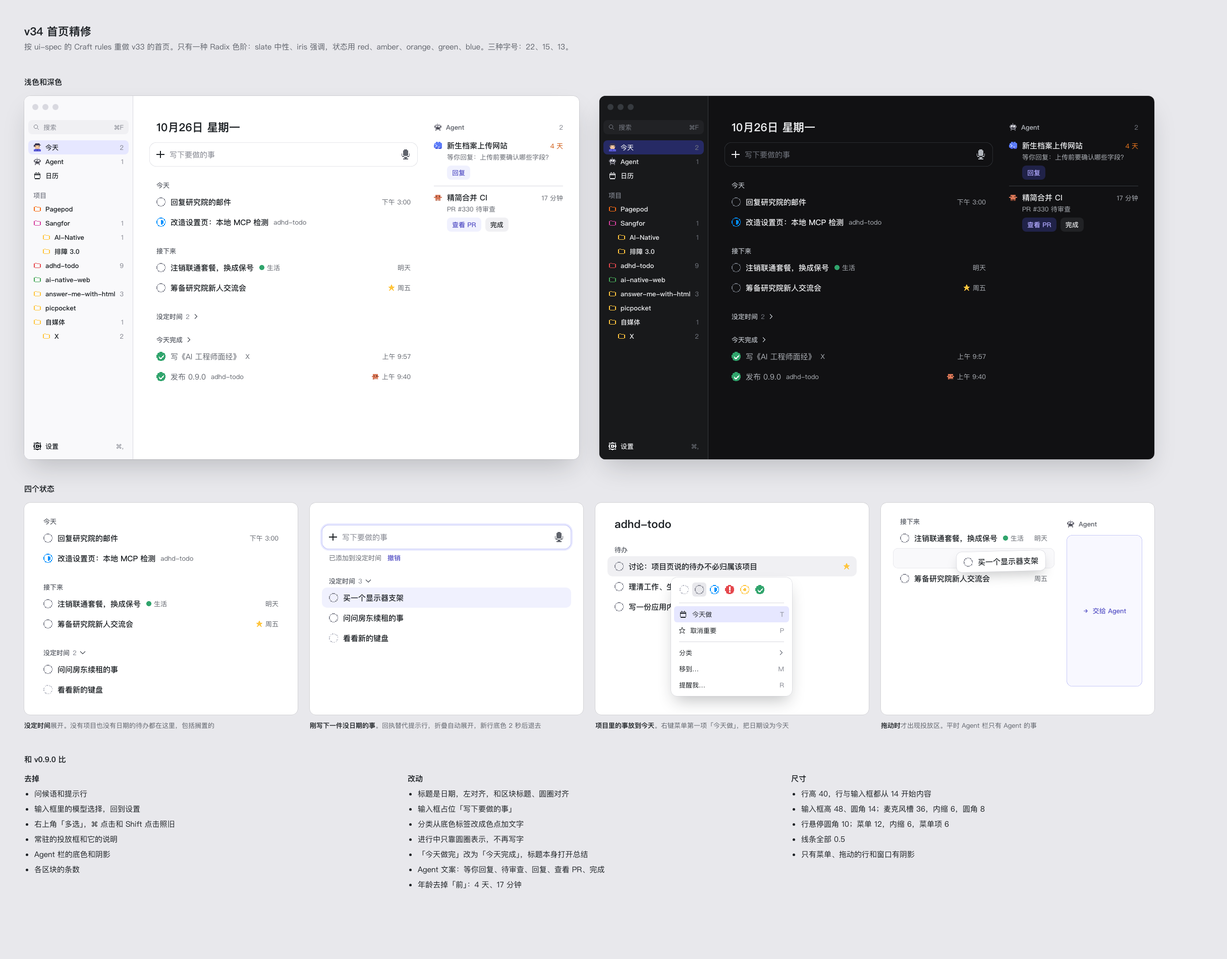
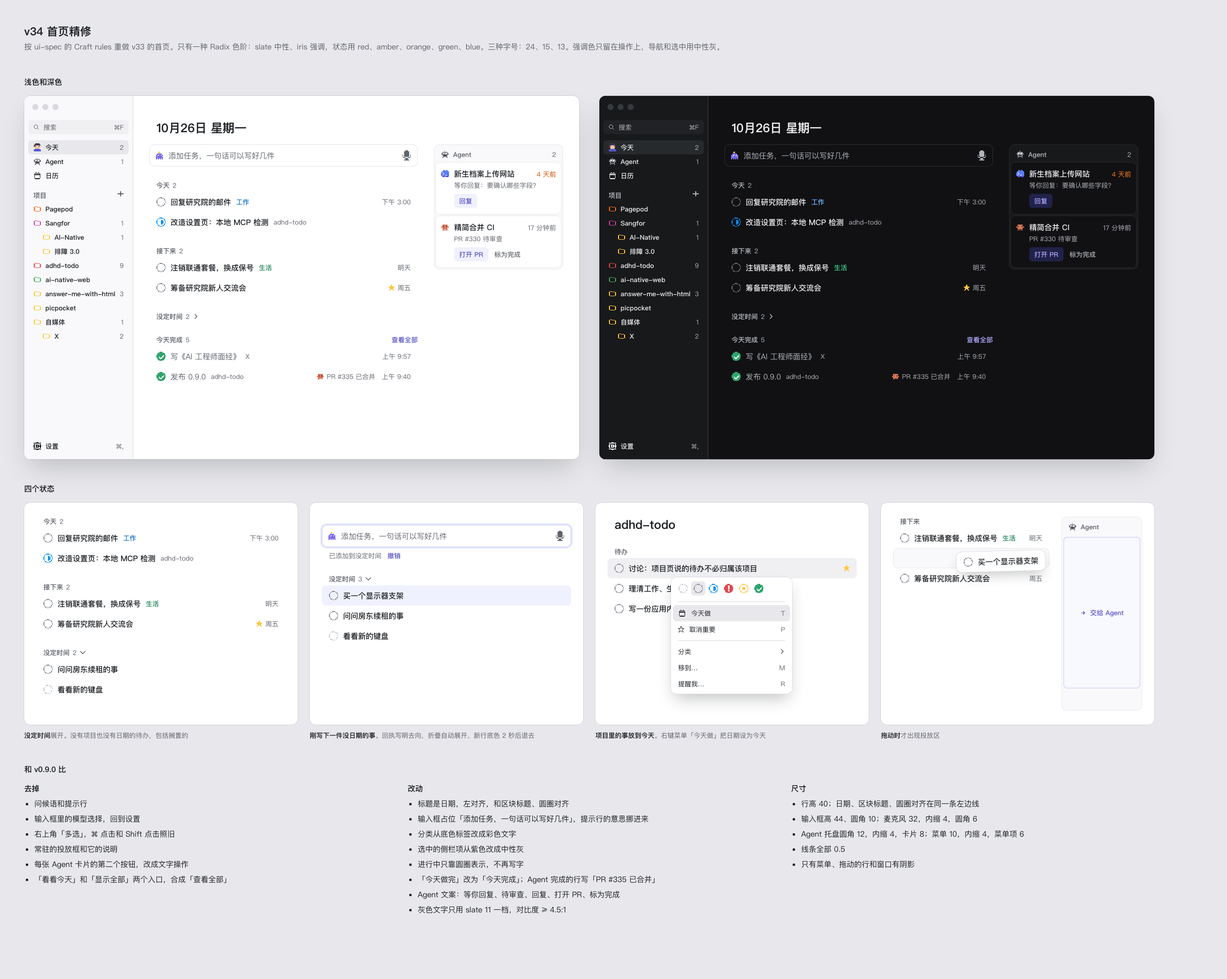
docs(design): v34 takes the app-screen rules and the parallel draft's best parts

diff --git a/docs/design/mockups/v34.html b/docs/design/mockups/v34.html
@@ -22,89 +22,89 @@ svg,img{display:block;flex:none}img.px{image-rendering:pixelated}
 .win{width:1100px;height:720px;background:var(--win);border-radius:12px;overflow:hidden;position:relative;display:flex;color:var(--s12);box-shadow:0 0 0 .5px rgba(0,0,0,.18),0 24px 48px -12px rgba(28,32,36,.22)}
 .lights{position:absolute;left:16px;top:16px;display:flex;gap:8px}.lights i{width:12px;height:12px;border-radius:6px;background:var(--s6)}
 .side{width:216px;background:var(--s2);border-right:.5px solid var(--s6);padding:48px 8px 12px;display:flex;flex-direction:column;flex:none}
-.search{height:28px;border-radius:8px;background:var(--s3);display:flex;align-items:center;gap:8px;padding:0 10px;font-size:13px;color:var(--s10);margin:0 0 12px}
+.search{height:28px;border-radius:6px;background:var(--s3);display:flex;align-items:center;gap:8px;padding:0 10px;font-size:13px;color:var(--s11);margin:0 0 12px}
 .search .k{margin-left:auto}
-.srow{height:28px;display:flex;align-items:center;gap:8px;padding:0 10px;font-size:13px;font-weight:500;border-radius:8px;color:var(--s12);white-space:nowrap;overflow:hidden}
-.srow em{margin-left:auto;font-style:normal;color:var(--s10);font-weight:400}.srow.on{background:var(--i4)}.srow.sub{padding-left:28px}
+.srow{height:28px;display:flex;align-items:center;gap:8px;padding:0 10px;font-size:13px;font-weight:500;border-radius:6px;color:var(--s12);white-space:nowrap;overflow:hidden}
+.srow em{margin-left:auto;font-style:normal;color:var(--s11);font-weight:400}.srow.on{background:var(--s4)}.srow.sub{padding-left:28px}
 .srow .ico{color:var(--s11)}
-.shead{font-size:13px;font-weight:600;color:var(--s10);margin:16px 10px 4px}
+.shead{font-size:13px;font-weight:600;color:var(--s11);margin:16px 10px 4px;display:flex;justify-content:space-between}
 .sp{flex:1}
 .main{flex:1;min-width:0;position:relative;display:flex;padding:48px 32px 0;gap:32px}
 .colL{flex:1;min-width:0}.colR{width:256px;flex:none}
-.title{font-size:22px;line-height:28px;font-weight:600;padding-left:14px}
+.title{font-size:24px;line-height:32px;font-weight:600;padding-left:14px;letter-spacing:-.01em}
 /* input: 48 tall, radius 14; the mic slot is 36 at a 6 inset, so its radius is 8 */
-.ask{margin-top:16px;height:48px;border-radius:14px;background:var(--win);box-shadow:inset 0 0 0 .5px var(--s7);display:flex;align-items:center;gap:10px;padding:0 6px 0 14px;font-size:15px}
-.ask .ph{color:var(--s10);flex:1}.ask .tx{flex:1}.ask .ic{color:var(--s11)}
+.ask{margin-top:16px;height:44px;border-radius:10px;background:var(--win);box-shadow:inset 0 0 0 .5px var(--s7);display:flex;align-items:center;gap:10px;padding:0 6px 0 12px;font-size:15px}
+.ask .ph{color:var(--s11);flex:1}.ask .tx{flex:1}.ask .ic{color:var(--s11)}
 .ask.focus{box-shadow:inset 0 0 0 .5px var(--i8),0 0 0 3px var(--i4)}
-.mic{width:36px;height:36px;border-radius:8px;display:grid;place-items:center;color:var(--s11)}
+.mic{width:32px;height:32px;border-radius:6px;display:grid;place-items:center;color:var(--s11)}
 .recp{font-size:13px;line-height:18px;color:var(--s11);margin:8px 0 0 14px;display:flex;gap:12px}.recp a{color:var(--i11);font-weight:500;text-decoration:none}
 /* lists */
 .grp{font-size:13px;line-height:18px;font-weight:600;color:var(--s11);margin:28px 0 4px;padding-left:14px;display:flex;align-items:center;gap:6px}
-.grp.link{color:var(--s11)}.grp .n{font-weight:400;color:var(--s10)}
-.row{height:40px;display:flex;align-items:center;gap:10px;padding:0 14px;border-radius:10px;font-size:15px}
+.grp.link{color:var(--s11)}.grp .n{font-weight:400;color:var(--s11)}.grp .lk{margin-left:auto;font-weight:500;color:var(--i11)}
+.row{height:40px;display:flex;align-items:center;gap:10px;padding:0 14px;border-radius:8px;font-size:15px}
 .row .ti{font-weight:500;white-space:nowrap;overflow:hidden;text-overflow:ellipsis;flex:0 1 auto}
 .row .pj{font-size:13px;color:var(--s11);white-space:nowrap}
-.row .cat{font-size:13px;color:var(--s11);display:flex;align-items:center;gap:4px;white-space:nowrap}
+.row .cat{font-size:13px;font-weight:500;white-space:nowrap}.cat.life{color:var(--grn11)}.cat.work{color:var(--blu11)}
 .row .g{flex:1}.row .r{font-size:13px;color:var(--s11);white-space:nowrap;display:flex;align-items:center;gap:6px}
 .row .r.due{color:var(--red11)}
 .row.done .ti{font-weight:400;color:var(--s11)}
 .row.hov{background:var(--s3)}.row.new{background:var(--i3)}
 .more{font-size:13px;color:var(--i11);font-weight:500;padding-left:42px;margin-top:4px}
 /* agents */
-.ah{font-size:13px;line-height:18px;font-weight:600;color:var(--s11);height:28px;display:flex;align-items:center;gap:8px}
-.ah .n{margin-left:auto;font-weight:400;color:var(--s10)}
-.ar{padding:12px 0;border-bottom:.5px solid var(--s6);display:flex;gap:10px}
-.ar:last-of-type{border-bottom:0}
+.tray{background:var(--s2);border-radius:12px;padding:4px;box-shadow:inset 0 0 0 .5px var(--s6)}
+.ah{font-size:13px;line-height:18px;font-weight:600;color:var(--s11);height:32px;display:flex;align-items:center;gap:8px;padding:0 10px}
+.ah .n{margin-left:auto;font-weight:400;color:var(--s11)}
+.ar{padding:12px 10px;background:var(--win);border-radius:8px;box-shadow:0 0 0 .5px var(--s6);display:flex;gap:10px}.ar+.ar{margin-top:4px}
 .ar .b{flex:1;min-width:0}.ar .t{font-size:15px;line-height:22px;font-weight:500;display:flex;gap:8px}.ar .t span:first-child{flex:1;white-space:nowrap;overflow:hidden;text-overflow:ellipsis}
 .ar .age{font-size:13px;font-weight:400;color:var(--s11)}.ar .age.stale{color:var(--ora11)}
 .ar .m{font-size:13px;line-height:18px;color:var(--s11);margin-top:2px}
-.ar .acts{display:flex;gap:8px;margin-top:8px}
-.btn{height:28px;padding:0 10px;border-radius:8px;font-size:13px;font-weight:500;display:inline-flex;align-items:center;background:var(--i3);color:var(--i11)}
-.btn.s{background:var(--s3);color:var(--s12)}
+.ar .acts{display:flex;gap:12px;margin-top:8px;align-items:center}
+.btn{height:28px;padding:0 10px;border-radius:6px;font-size:13px;font-weight:500;display:inline-flex;align-items:center;background:var(--i3);color:var(--i11)}
+.tlink{font-size:13px;font-weight:500;color:var(--s11)}
 .av{margin-top:2px}
-.drop{margin-top:8px;height:100%;border-radius:12px;background:var(--i2);box-shadow:inset 0 0 0 .5px var(--i8);display:flex;align-items:center;justify-content:center;gap:8px;font-size:13px;font-weight:500;color:var(--i11)}
+.drop{margin-top:4px;height:100%;border-radius:8px;background:var(--i2);box-shadow:inset 0 0 0 .5px var(--i8);display:flex;align-items:center;justify-content:center;gap:8px;font-size:13px;font-weight:500;color:var(--i11)}
 .ghost{position:absolute;height:40px;display:flex;align-items:center;gap:10px;padding:0 14px;border-radius:10px;background:var(--win);font-size:15px;font-weight:500;box-shadow:0 0 0 .5px var(--s7),0 12px 24px -6px rgba(28,32,36,.25)}
 .slot{height:40px;border-radius:10px;background:var(--s2);box-shadow:inset 0 0 0 .5px var(--s6)}
 /* detail panels: a crop of the same window */
 .quad{display:grid;grid-template-columns:repeat(4,1fr);gap:24px}
-.pnl{height:420px;background:var(--win);border-radius:12px;overflow:hidden;position:relative;padding:28px 24px;box-shadow:0 0 0 .5px rgba(0,0,0,.18)}
-.menu{position:absolute;width:240px;background:var(--win);border-radius:12px;padding:6px;box-shadow:0 0 0 .5px var(--s7),0 16px 32px -8px rgba(28,32,36,.28);font-size:13px}
+.pnl{height:440px;background:var(--win);border-radius:12px;overflow:hidden;position:relative;padding:28px 24px;box-shadow:0 0 0 .5px rgba(0,0,0,.18)}
+.menu{position:absolute;width:240px;background:var(--win);border-radius:10px;padding:4px;box-shadow:0 0 0 .5px var(--s7),0 16px 32px -8px rgba(28,32,36,.28);font-size:13px}
 .menu .mi{height:32px;display:flex;align-items:center;gap:10px;padding:0 10px;border-radius:6px}
-.menu .mi .k{margin-left:auto;color:var(--s10)}.menu .mi.on{background:var(--i4)}
+.menu .mi .k{margin-left:auto;color:var(--s11)}.menu .mi.on{background:var(--s4)}
 .menu .hr{height:.5px;background:var(--s6);margin:6px 10px}
 .menu .strip{display:flex;gap:2px;padding:4px 6px 6px}.menu .strip span{width:28px;height:28px;display:grid;place-items:center;border-radius:6px}.menu .strip span.on{background:var(--s4)}
 .list{font-size:15px;line-height:24px;color:var(--s12)}.list li{margin:0 0 6px 20px}
 .cols3{display:grid;grid-template-columns:repeat(3,1fr);gap:40px}
 .cols3 h4{font-size:15px;font-weight:600;margin-bottom:8px}
 </style></head><body><div class="pt">v34 首页精修</div>
-<div class="pn">按 ui-spec 的 Craft rules 重做 v33 的首页。只有一种 Radix 色阶：slate 中性、iris 强调，状态用 red、amber、orange、green、blue。三种字号：22、15、13。</div>
+<div class="pn">按 ui-spec 的 Craft rules 重做 v33 的首页。只有一种 Radix 色阶：slate 中性、iris 强调，状态用 red、amber、orange、green、blue。三种字号：24、15、13。强调色只留在操作上，导航和选中用中性灰。</div>
 <div class="sec">浅色和深色</div>
-<div class="pair"><div class="win"><div class="lights"><i></i><i></i><i></i></div><div class="side"><div class="search"><span data-i="search" data-s="12"></span>搜索<span class="k">⌘F</span></div><div class="srow on"><img class="px" src="../../../app/theme/sprites/avatars/you.png" width="16" height="16">今天<em>2</em></div><div class="srow"><img class="px" src="../../../app/theme/sprites/avatars/bot.png" width="16" height="16">Agent<em>1</em></div><div class="srow"><span class="ico" data-i="calendar" data-s="16"></span>日历</div><div class="shead">项目</div><div class="srow"><span class="ico" style="color:var(--fora)" data-i="folder" data-s="16"></span>Pagepod<em></em></div><div class="srow"><span class="ico" style="color:var(--fpnk)" data-i="folder" data-s="16"></span>Sangfor<em>1</em></div><div class="srow sub"><span class="ico" style="color:var(--famb)" data-i="folder" data-s="16"></span>AI-Native<em>1</em></div><div class="srow sub"><span class="ico" style="color:var(--famb)" data-i="folder" data-s="16"></span>排障 3.0<em></em></div><div class="srow"><span class="ico" style="color:var(--fred)" data-i="folder" data-s="16"></span>adhd-todo<em>9</em></div><div class="srow"><span class="ico" style="color:var(--fgrs)" data-i="folder" data-s="16"></span>ai-native-web<em></em></div><div class="srow"><span class="ico" style="color:var(--famb)" data-i="folder" data-s="16"></span>answer-me-with-html<em>3</em></div><div class="srow"><span class="ico" style="color:var(--famb)" data-i="folder" data-s="16"></span>picpocket<em></em></div><div class="srow"><span class="ico" style="color:var(--famb)" data-i="folder" data-s="16"></span>自媒体<em>1</em></div><div class="srow sub"><span class="ico" style="color:var(--famb)" data-i="folder" data-s="16"></span>X<em>2</em></div><div class="sp"></div><div class="srow"><span class="ico" data-i="gear" data-s="16"></span>设置<em>⌘,</em></div></div>
-<div class="main"><div class="colL"><div class="title">10月26日 星期一</div><div class="ask "><span class="ic" data-p="plus" data-s="16"></span><span class="ph">写下要做的事</span><span class="mic"><span data-p="mic" data-s="20"></span></span></div><div class="grp">今天</div><div class="row "><span data-g="todo"></span><span class="ti">回复研究院的邮件</span><span class="g"></span><span class="r ">下午 3:00</span></div><div class="row "><span data-g="doing"></span><span class="ti">改造设置页：本地 MCP 检测</span><span class="pj">adhd-todo</span><span class="g"></span><span class="r "></span></div><div class="grp">接下来</div><div class="row "><span data-g="todo"></span><span class="ti">注销联通套餐，换成保号</span><span class="cat"><span data-c="life"></span>生活</span><span class="g"></span><span class="r ">明天</span></div><div class="row "><span data-g="todo"></span><span class="ti">筹备研究院新人交流会</span><span class="g"></span><span class="r "><span data-p="star" data-s="12" data-col="star"></span>周五</span></div><div class="grp">没定时间<span class="n">2</span><span data-p="chev" data-s="12"></span></div><div class="grp">今天完成<span data-p="chev" data-s="12"></span></div><div class="row done"><span data-g="done"></span><span class="ti">写《AI 工程师面经》</span><span class="pj">X</span><span class="g"></span><span class="r ">上午 9:57</span></div><div class="row done"><span data-g="done"></span><span class="ti">发布 0.9.0</span><span class="pj">adhd-todo</span><span class="g"></span><span class="r"><img class="px" src="../../../app/theme/sprites/avatars/claude.png" width="14" height="14">上午 9:40</span></div></div>
-<div class="colR"><div class="ah"><img class="px" src="../../../app/theme/sprites/avatars/bot.png" width="16" height="16">Agent<span class="n">2</span></div>
-<div class="ar"><img class="px av" src="../../../app/theme/sprites/avatars/codex.png" width="16" height="16"><div class="b"><div class="t"><span>新生档案上传网站</span><span class="age stale">4 天</span></div><div class="m">等你回复：上传前要确认哪些字段？</div><div class="acts"><span class="btn">回复</span></div></div></div>
-<div class="ar"><img class="px av" src="../../../app/theme/sprites/avatars/claude.png" width="16" height="16"><div class="b"><div class="t"><span>精简合并 CI</span><span class="age">17 分钟</span></div><div class="m">PR #330 待审查</div><div class="acts"><span class="btn">查看 PR</span><span class="btn s">完成</span></div></div></div></div></div></div><div class="win dk"><div class="lights"><i></i><i></i><i></i></div><div class="side"><div class="search"><span data-i="search" data-s="12"></span>搜索<span class="k">⌘F</span></div><div class="srow on"><img class="px" src="../../../app/theme/sprites/avatars/you.png" width="16" height="16">今天<em>2</em></div><div class="srow"><img class="px" src="../../../app/theme/sprites/avatars/bot.png" width="16" height="16">Agent<em>1</em></div><div class="srow"><span class="ico" data-i="calendar" data-s="16"></span>日历</div><div class="shead">项目</div><div class="srow"><span class="ico" style="color:var(--fora)" data-i="folder" data-s="16"></span>Pagepod<em></em></div><div class="srow"><span class="ico" style="color:var(--fpnk)" data-i="folder" data-s="16"></span>Sangfor<em>1</em></div><div class="srow sub"><span class="ico" style="color:var(--famb)" data-i="folder" data-s="16"></span>AI-Native<em>1</em></div><div class="srow sub"><span class="ico" style="color:var(--famb)" data-i="folder" data-s="16"></span>排障 3.0<em></em></div><div class="srow"><span class="ico" style="color:var(--fred)" data-i="folder" data-s="16"></span>adhd-todo<em>9</em></div><div class="srow"><span class="ico" style="color:var(--fgrs)" data-i="folder" data-s="16"></span>ai-native-web<em></em></div><div class="srow"><span class="ico" style="color:var(--famb)" data-i="folder" data-s="16"></span>answer-me-with-html<em>3</em></div><div class="srow"><span class="ico" style="color:var(--famb)" data-i="folder" data-s="16"></span>picpocket<em></em></div><div class="srow"><span class="ico" style="color:var(--famb)" data-i="folder" data-s="16"></span>自媒体<em>1</em></div><div class="srow sub"><span class="ico" style="color:var(--famb)" data-i="folder" data-s="16"></span>X<em>2</em></div><div class="sp"></div><div class="srow"><span class="ico" data-i="gear" data-s="16"></span>设置<em>⌘,</em></div></div>
-<div class="main"><div class="colL"><div class="title">10月26日 星期一</div><div class="ask "><span class="ic" data-p="plus" data-s="16"></span><span class="ph">写下要做的事</span><span class="mic"><span data-p="mic" data-s="20"></span></span></div><div class="grp">今天</div><div class="row "><span data-g="todo"></span><span class="ti">回复研究院的邮件</span><span class="g"></span><span class="r ">下午 3:00</span></div><div class="row "><span data-g="doing"></span><span class="ti">改造设置页：本地 MCP 检测</span><span class="pj">adhd-todo</span><span class="g"></span><span class="r "></span></div><div class="grp">接下来</div><div class="row "><span data-g="todo"></span><span class="ti">注销联通套餐，换成保号</span><span class="cat"><span data-c="life"></span>生活</span><span class="g"></span><span class="r ">明天</span></div><div class="row "><span data-g="todo"></span><span class="ti">筹备研究院新人交流会</span><span class="g"></span><span class="r "><span data-p="star" data-s="12" data-col="star"></span>周五</span></div><div class="grp">没定时间<span class="n">2</span><span data-p="chev" data-s="12"></span></div><div class="grp">今天完成<span data-p="chev" data-s="12"></span></div><div class="row done"><span data-g="done"></span><span class="ti">写《AI 工程师面经》</span><span class="pj">X</span><span class="g"></span><span class="r ">上午 9:57</span></div><div class="row done"><span data-g="done"></span><span class="ti">发布 0.9.0</span><span class="pj">adhd-todo</span><span class="g"></span><span class="r"><img class="px" src="../../../app/theme/sprites/avatars/claude.png" width="14" height="14">上午 9:40</span></div></div>
-<div class="colR"><div class="ah"><img class="px" src="../../../app/theme/sprites/avatars/bot.png" width="16" height="16">Agent<span class="n">2</span></div>
-<div class="ar"><img class="px av" src="../../../app/theme/sprites/avatars/codex.png" width="16" height="16"><div class="b"><div class="t"><span>新生档案上传网站</span><span class="age stale">4 天</span></div><div class="m">等你回复：上传前要确认哪些字段？</div><div class="acts"><span class="btn">回复</span></div></div></div>
-<div class="ar"><img class="px av" src="../../../app/theme/sprites/avatars/claude.png" width="16" height="16"><div class="b"><div class="t"><span>精简合并 CI</span><span class="age">17 分钟</span></div><div class="m">PR #330 待审查</div><div class="acts"><span class="btn">查看 PR</span><span class="btn s">完成</span></div></div></div></div></div></div></div>
+<div class="pair"><div class="win"><div class="lights"><i></i><i></i><i></i></div><div class="side"><div class="search"><span data-i="search" data-s="12"></span>搜索<span class="k">⌘F</span></div><div class="srow on"><img class="px" src="../../../app/theme/sprites/avatars/you.png" width="16" height="16">今天<em>2</em></div><div class="srow"><img class="px" src="../../../app/theme/sprites/avatars/bot.png" width="16" height="16">Agent<em>1</em></div><div class="srow"><span class="ico" data-i="calendar" data-s="16"></span>日历</div><div class="shead">项目<span data-p="plus" data-s="12"></span></div><div class="srow"><span class="ico" style="color:var(--fora)" data-i="folder" data-s="16"></span>Pagepod<em></em></div><div class="srow"><span class="ico" style="color:var(--fpnk)" data-i="folder" data-s="16"></span>Sangfor<em>1</em></div><div class="srow sub"><span class="ico" style="color:var(--famb)" data-i="folder" data-s="16"></span>AI-Native<em>1</em></div><div class="srow sub"><span class="ico" style="color:var(--famb)" data-i="folder" data-s="16"></span>排障 3.0<em></em></div><div class="srow"><span class="ico" style="color:var(--fred)" data-i="folder" data-s="16"></span>adhd-todo<em>9</em></div><div class="srow"><span class="ico" style="color:var(--fgrs)" data-i="folder" data-s="16"></span>ai-native-web<em></em></div><div class="srow"><span class="ico" style="color:var(--famb)" data-i="folder" data-s="16"></span>answer-me-with-html<em>3</em></div><div class="srow"><span class="ico" style="color:var(--famb)" data-i="folder" data-s="16"></span>picpocket<em></em></div><div class="srow"><span class="ico" style="color:var(--famb)" data-i="folder" data-s="16"></span>自媒体<em>1</em></div><div class="srow sub"><span class="ico" style="color:var(--famb)" data-i="folder" data-s="16"></span>X<em>2</em></div><div class="sp"></div><div class="srow"><span class="ico" data-i="gear" data-s="16"></span>设置<em>⌘,</em></div></div>
+<div class="main"><div class="colL"><div class="title">10月26日 星期一</div><div class="ask "><img class="px" src="../../../app/theme/sprites/avatars/assistant.png" width="16" height="16"><span class="ph">添加任务，一句话可以写好几件</span><span class="mic"><span data-p="mic" data-s="20"></span></span></div><div class="grp">今天<span class="n">2</span></div><div class="row "><span data-g="todo"></span><span class="ti">回复研究院的邮件</span><span class="cat work">工作</span><span class="g"></span><span class="r ">下午 3:00</span></div><div class="row "><span data-g="doing"></span><span class="ti">改造设置页：本地 MCP 检测</span><span class="pj">adhd-todo</span><span class="g"></span><span class="r "></span></div><div class="grp">接下来<span class="n">2</span></div><div class="row "><span data-g="todo"></span><span class="ti">注销联通套餐，换成保号</span><span class="cat life">生活</span><span class="g"></span><span class="r ">明天</span></div><div class="row "><span data-g="todo"></span><span class="ti">筹备研究院新人交流会</span><span class="g"></span><span class="r "><span data-p="star" data-s="12" data-col="star"></span>周五</span></div><div class="grp">没定时间<span class="n">2</span><span data-p="chev" data-s="12"></span></div><div class="grp">今天完成<span class="n">5</span><span class="lk">查看全部</span></div><div class="row done"><span data-g="done"></span><span class="ti">写《AI 工程师面经》</span><span class="pj">X</span><span class="g"></span><span class="r ">上午 9:57</span></div><div class="row done"><span data-g="done"></span><span class="ti">发布 0.9.0</span><span class="pj">adhd-todo</span><span class="g"></span><span class="r"><img class="px" src="../../../app/theme/sprites/avatars/claude.png" width="14" height="14">PR #335 已合并&emsp;上午 9:40</span></div></div>
+<div class="colR" style="padding-top:48px"><div class="tray"><div class="ah"><img class="px" src="../../../app/theme/sprites/avatars/bot.png" width="16" height="16">Agent<span class="n">2</span></div>
+<div class="ar"><img class="px av" src="../../../app/theme/sprites/avatars/codex.png" width="16" height="16"><div class="b"><div class="t"><span>新生档案上传网站</span><span class="age stale">4 天前</span></div><div class="m">等你回复：要确认哪些字段？</div><div class="acts"><span class="btn">回复</span></div></div></div>
+<div class="ar"><img class="px av" src="../../../app/theme/sprites/avatars/claude.png" width="16" height="16"><div class="b"><div class="t"><span>精简合并 CI</span><span class="age">17 分钟前</span></div><div class="m">PR #330 待审查</div><div class="acts"><span class="btn">打开 PR</span><span class="tlink">标为完成</span></div></div></div></div></div></div></div><div class="win dk"><div class="lights"><i></i><i></i><i></i></div><div class="side"><div class="search"><span data-i="search" data-s="12"></span>搜索<span class="k">⌘F</span></div><div class="srow on"><img class="px" src="../../../app/theme/sprites/avatars/you.png" width="16" height="16">今天<em>2</em></div><div class="srow"><img class="px" src="../../../app/theme/sprites/avatars/bot.png" width="16" height="16">Agent<em>1</em></div><div class="srow"><span class="ico" data-i="calendar" data-s="16"></span>日历</div><div class="shead">项目<span data-p="plus" data-s="12"></span></div><div class="srow"><span class="ico" style="color:var(--fora)" data-i="folder" data-s="16"></span>Pagepod<em></em></div><div class="srow"><span class="ico" style="color:var(--fpnk)" data-i="folder" data-s="16"></span>Sangfor<em>1</em></div><div class="srow sub"><span class="ico" style="color:var(--famb)" data-i="folder" data-s="16"></span>AI-Native<em>1</em></div><div class="srow sub"><span class="ico" style="color:var(--famb)" data-i="folder" data-s="16"></span>排障 3.0<em></em></div><div class="srow"><span class="ico" style="color:var(--fred)" data-i="folder" data-s="16"></span>adhd-todo<em>9</em></div><div class="srow"><span class="ico" style="color:var(--fgrs)" data-i="folder" data-s="16"></span>ai-native-web<em></em></div><div class="srow"><span class="ico" style="color:var(--famb)" data-i="folder" data-s="16"></span>answer-me-with-html<em>3</em></div><div class="srow"><span class="ico" style="color:var(--famb)" data-i="folder" data-s="16"></span>picpocket<em></em></div><div class="srow"><span class="ico" style="color:var(--famb)" data-i="folder" data-s="16"></span>自媒体<em>1</em></div><div class="srow sub"><span class="ico" style="color:var(--famb)" data-i="folder" data-s="16"></span>X<em>2</em></div><div class="sp"></div><div class="srow"><span class="ico" data-i="gear" data-s="16"></span>设置<em>⌘,</em></div></div>
+<div class="main"><div class="colL"><div class="title">10月26日 星期一</div><div class="ask "><img class="px" src="../../../app/theme/sprites/avatars/assistant.png" width="16" height="16"><span class="ph">添加任务，一句话可以写好几件</span><span class="mic"><span data-p="mic" data-s="20"></span></span></div><div class="grp">今天<span class="n">2</span></div><div class="row "><span data-g="todo"></span><span class="ti">回复研究院的邮件</span><span class="cat work">工作</span><span class="g"></span><span class="r ">下午 3:00</span></div><div class="row "><span data-g="doing"></span><span class="ti">改造设置页：本地 MCP 检测</span><span class="pj">adhd-todo</span><span class="g"></span><span class="r "></span></div><div class="grp">接下来<span class="n">2</span></div><div class="row "><span data-g="todo"></span><span class="ti">注销联通套餐，换成保号</span><span class="cat life">生活</span><span class="g"></span><span class="r ">明天</span></div><div class="row "><span data-g="todo"></span><span class="ti">筹备研究院新人交流会</span><span class="g"></span><span class="r "><span data-p="star" data-s="12" data-col="star"></span>周五</span></div><div class="grp">没定时间<span class="n">2</span><span data-p="chev" data-s="12"></span></div><div class="grp">今天完成<span class="n">5</span><span class="lk">查看全部</span></div><div class="row done"><span data-g="done"></span><span class="ti">写《AI 工程师面经》</span><span class="pj">X</span><span class="g"></span><span class="r ">上午 9:57</span></div><div class="row done"><span data-g="done"></span><span class="ti">发布 0.9.0</span><span class="pj">adhd-todo</span><span class="g"></span><span class="r"><img class="px" src="../../../app/theme/sprites/avatars/claude.png" width="14" height="14">PR #335 已合并&emsp;上午 9:40</span></div></div>
+<div class="colR" style="padding-top:48px"><div class="tray"><div class="ah"><img class="px" src="../../../app/theme/sprites/avatars/bot.png" width="16" height="16">Agent<span class="n">2</span></div>
+<div class="ar"><img class="px av" src="../../../app/theme/sprites/avatars/codex.png" width="16" height="16"><div class="b"><div class="t"><span>新生档案上传网站</span><span class="age stale">4 天前</span></div><div class="m">等你回复：要确认哪些字段？</div><div class="acts"><span class="btn">回复</span></div></div></div>
+<div class="ar"><img class="px av" src="../../../app/theme/sprites/avatars/claude.png" width="16" height="16"><div class="b"><div class="t"><span>精简合并 CI</span><span class="age">17 分钟前</span></div><div class="m">PR #330 待审查</div><div class="acts"><span class="btn">打开 PR</span><span class="tlink">标为完成</span></div></div></div></div></div></div></div></div>
 <div class="sec">四个状态</div>
-<div class="quad"><div><div class="pnl"><div style="margin:-28px 0 0"><div class="grp">今天</div><div class="row "><span data-g="todo"></span><span class="ti">回复研究院的邮件</span><span class="g"></span><span class="r ">下午 3:00</span></div><div class="row "><span data-g="doing"></span><span class="ti">改造设置页：本地 MCP 检测</span><span class="pj">adhd-todo</span><span class="g"></span><span class="r "></span></div><div class="grp">接下来</div><div class="row "><span data-g="todo"></span><span class="ti">注销联通套餐，换成保号</span><span class="cat"><span data-c="life"></span>生活</span><span class="g"></span><span class="r ">明天</span></div><div class="row "><span data-g="todo"></span><span class="ti">筹备研究院新人交流会</span><span class="g"></span><span class="r "><span data-p="star" data-s="12" data-col="star"></span>周五</span></div><div class="grp">没定时间<span class="n">2</span><span data-p="chevd" data-s="12"></span></div><div class="row "><span data-g="todo"></span><span class="ti">问问房东续租的事</span><span class="g"></span><span class="r "></span></div><div class="row "><span data-g="backlog"></span><span class="ti">看看新的键盘</span><span class="g"></span><span class="r "></span></div></div></div><div class="cap"><b>没定时间</b>展开。没有项目也没有日期的待办都在这里，包括搁置的</div></div><div><div class="pnl"><div style="margin:0"><div class="ask focus"><span class="ic" data-p="plus" data-s="16"></span><span class="ph">写下要做的事</span><span class="mic"><span data-p="mic" data-s="20"></span></span></div><div class="recp"><span>已添加到没定时间</span><a>撤销</a></div><div class="grp">没定时间<span class="n">3</span><span data-p="chevd" data-s="12"></span></div><div class="row new"><span data-g="todo"></span><span class="ti">买一个显示器支架</span><span class="g"></span><span class="r "></span></div><div class="row "><span data-g="todo"></span><span class="ti">问问房东续租的事</span><span class="g"></span><span class="r "></span></div><div class="row "><span data-g="backlog"></span><span class="ti">看看新的键盘</span><span class="g"></span><span class="r "></span></div></div></div><div class="cap"><b>刚写下一件没日期的事</b>。回执替代提示行，折叠自动展开，新行底色 2 秒后退去</div></div><div><div class="pnl"><div class="title" style="padding-left:14px">adhd-todo</div>
+<div class="quad"><div><div class="pnl"><div style="margin:-28px 0 0"><div class="grp">今天<span class="n">2</span></div><div class="row "><span data-g="todo"></span><span class="ti">回复研究院的邮件</span><span class="cat work">工作</span><span class="g"></span><span class="r ">下午 3:00</span></div><div class="row "><span data-g="doing"></span><span class="ti">改造设置页：本地 MCP 检测</span><span class="pj">adhd-todo</span><span class="g"></span><span class="r "></span></div><div class="grp">接下来<span class="n">2</span></div><div class="row "><span data-g="todo"></span><span class="ti">注销联通套餐，换成保号</span><span class="cat life">生活</span><span class="g"></span><span class="r ">明天</span></div><div class="row "><span data-g="todo"></span><span class="ti">筹备研究院新人交流会</span><span class="g"></span><span class="r "><span data-p="star" data-s="12" data-col="star"></span>周五</span></div><div class="grp">没定时间<span class="n">2</span><span data-p="chevd" data-s="12"></span></div><div class="row "><span data-g="todo"></span><span class="ti">问问房东续租的事</span><span class="g"></span><span class="r "></span></div><div class="row "><span data-g="backlog"></span><span class="ti">看看新的键盘</span><span class="g"></span><span class="r "></span></div></div></div><div class="cap"><b>没定时间</b>展开。没有项目也没有日期的待办，包括搁置的</div></div><div><div class="pnl"><div style="margin:0"><div class="ask focus"><img class="px" src="../../../app/theme/sprites/avatars/assistant.png" width="16" height="16"><span class="ph">添加任务，一句话可以写好几件</span><span class="mic"><span data-p="mic" data-s="20"></span></span></div><div class="recp"><span>已添加到没定时间</span><a>撤销</a></div><div class="grp">没定时间<span class="n">3</span><span data-p="chevd" data-s="12"></span></div><div class="row new"><span data-g="todo"></span><span class="ti">买一个显示器支架</span><span class="g"></span><span class="r "></span></div><div class="row "><span data-g="todo"></span><span class="ti">问问房东续租的事</span><span class="g"></span><span class="r "></span></div><div class="row "><span data-g="backlog"></span><span class="ti">看看新的键盘</span><span class="g"></span><span class="r "></span></div></div></div><div class="cap"><b>刚写下一件没日期的事</b>。回执写明去向，折叠自动展开，新行底色 2 秒后退去</div></div><div><div class="pnl"><div class="title" style="padding-left:14px">adhd-todo</div>
 <div class="grp">待办</div><div class="row hov"><span data-g="todo"></span><span class="ti">讨论：项目页说的待办不必归属该项目</span><span class="g"></span><span class="r "><span data-p="star" data-s="12" data-col="star"></span></span></div><div class="row "><span data-g="todo"></span><span class="ti">理清工作、生活和项目的关系</span><span class="g"></span><span class="r "></span></div><div class="row "><span data-g="todo"></span><span class="ti">写一份应用内更新的测试清单</span><span class="g"></span><span class="r "></span></div>
 <div class="menu" style="left:150px;top:148px"><div class="strip"><span><span data-g="backlog"></span></span><span class=on><span data-g="todo"></span></span><span><span data-g="doing"></span></span><span><span data-g="blocked"></span></span><span><span data-g="review"></span></span><span><span data-g="done"></span></span></div><div class="hr"></div>
 <div class="mi on"><span data-i="calendar" data-s="16"></span>今天做<span class="k">T</span></div>
 <div class="mi"><span data-p="staro" data-s="12" style="margin:0 2px"></span>取消重要<span class="k">P</span></div>
 <div class="hr"></div><div class="mi">分类<span class="k"><span data-p="chev" data-s="12"></span></span></div><div class="mi">移到…<span class="k">M</span></div><div class="mi">提醒我…<span class="k">R</span></div></div>
-</div><div class="cap"><b>项目里的事放到今天</b>。右键菜单第一项「今天做」，把日期设为今天</div></div><div><div class="pnl" style="display:flex;gap:24px;padding-right:24px">
-<div style="flex:1;min-width:0"><div class="grp" style="margin-top:0">接下来</div><div class="row "><span data-g="todo"></span><span class="ti">注销联通套餐，换成保号</span><span class="cat"><span data-c="life"></span>生活</span><span class="g"></span><span class="r ">明天</span></div><div class="slot" style="margin:0"></div><div class="row "><span data-g="todo"></span><span class="ti">筹备研究院新人交流会</span><span class="g"></span><span class="r ">周五</span></div></div>
-<div style="width:150px;display:flex;flex-direction:column"><div class="ah"><img class="px" src="../../../app/theme/sprites/avatars/bot.png" width="16" height="16">Agent</div><div class="drop" style="height:300px"><span data-i="arrow-right" data-s="12"></span>交给 Agent</div></div>
+</div><div class="cap"><b>项目里的事放到今天</b>。右键菜单「今天做」把日期设为今天</div></div><div><div class="pnl" style="display:flex;gap:24px;padding-right:24px">
+<div style="flex:1;min-width:0"><div class="grp" style="margin-top:0">接下来</div><div class="row "><span data-g="todo"></span><span class="ti">注销联通套餐，换成保号</span><span class="cat life">生活</span><span class="g"></span><span class="r ">明天</span></div><div class="slot" style="margin:0"></div><div class="row "><span data-g="todo"></span><span class="ti">筹备研究院新人交流会</span><span class="g"></span><span class="r ">周五</span></div></div>
+<div class="tray" style="width:160px;display:flex;flex-direction:column"><div class="ah"><img class="px" src="../../../app/theme/sprites/avatars/bot.png" width="16" height="16">Agent</div><div class="drop" style="height:300px;flex:none"><span data-i="arrow-right" data-s="12"></span>交给 Agent</div></div>
 <div class="ghost" style="left:150px;top:96px;transform:rotate(-1.5deg)"><span data-g="todo"></span>买一个显示器支架</div>
-</div><div class="cap"><b>拖动时</b>才出现投放区。平时 Agent 栏只有 Agent 的事</div></div></div>
+</div><div class="cap"><b>拖动时</b>才出现投放区</div></div></div>
 <div class="sec">和 v0.9.0 比</div>
 <div class="cols3">
-<div><h4>去掉</h4><ul class="list"><li>问候语和提示行</li><li>输入框里的模型选择，回到设置</li><li>右上角「多选」，⌘ 点击和 Shift 点击照旧</li><li>常驻的投放框和它的说明</li><li>Agent 栏的底色和阴影</li><li>各区块的条数</li></ul></div>
-<div><h4>改动</h4><ul class="list"><li>标题是日期，左对齐，和区块标题、圆圈对齐</li><li>输入框占位「写下要做的事」</li><li>分类从底色标签改成色点加文字</li><li>进行中只靠圆圈表示，不再写字</li><li>「今天做完」改为「今天完成」，标题本身打开总结</li><li>Agent 文案：等你回复、待审查、回复、查看 PR、完成</li><li>年龄去掉「前」：4 天、17 分钟</li></ul></div>
-<div><h4>尺寸</h4><ul class="list"><li>行高 40，行与输入框都从 14 开始内容</li><li>输入框高 48、圆角 14；麦克风槽 36，内缩 6，圆角 8</li><li>行悬停圆角 10；菜单 12，内缩 6，菜单项 6</li><li>线条全部 0.5</li><li>只有菜单、拖动的行和窗口有阴影</li></ul></div>
+<div><h4>去掉</h4><ul class="list"><li>问候语和提示行</li><li>输入框里的模型选择，回到设置</li><li>右上角「多选」，⌘ 点击和 Shift 点击照旧</li><li>常驻的投放框和它的说明</li><li>每张 Agent 卡片的第二个按钮，改成文字操作</li><li>「看看今天」和「显示全部」两个入口，合成「查看全部」</li></ul></div>
+<div><h4>改动</h4><ul class="list"><li>标题是日期，左对齐，和区块标题、圆圈对齐</li><li>输入框占位「添加任务，一句话可以写好几件」，提示行的意思挪进来</li><li>分类从底色标签改成彩色文字</li><li>选中的侧栏项从紫色改成中性灰</li><li>进行中只靠圆圈表示，不再写字</li><li>「今天做完」改为「今天完成」；Agent 完成的行写「PR #335 已合并」</li><li>Agent 文案：等你回复、待审查、回复、打开 PR、标为完成</li><li>灰色文字只用 slate 11 一档，对比度 ≥ 4.5:1</li></ul></div>
+<div><h4>尺寸</h4><ul class="list"><li>行高 40；日期、区块标题、圆圈对齐在同一条左边线</li><li>输入框高 44、圆角 10；麦克风 32，内缩 4，圆角 6</li><li>Agent 托盘圆角 12，内缩 4，卡片 8；菜单 10，内缩 4，菜单项 6</li><li>线条全部 0.5</li><li>只有菜单、拖动的行和窗口有阴影</li></ul></div>
 </div>
 <script>
 const ICON={
